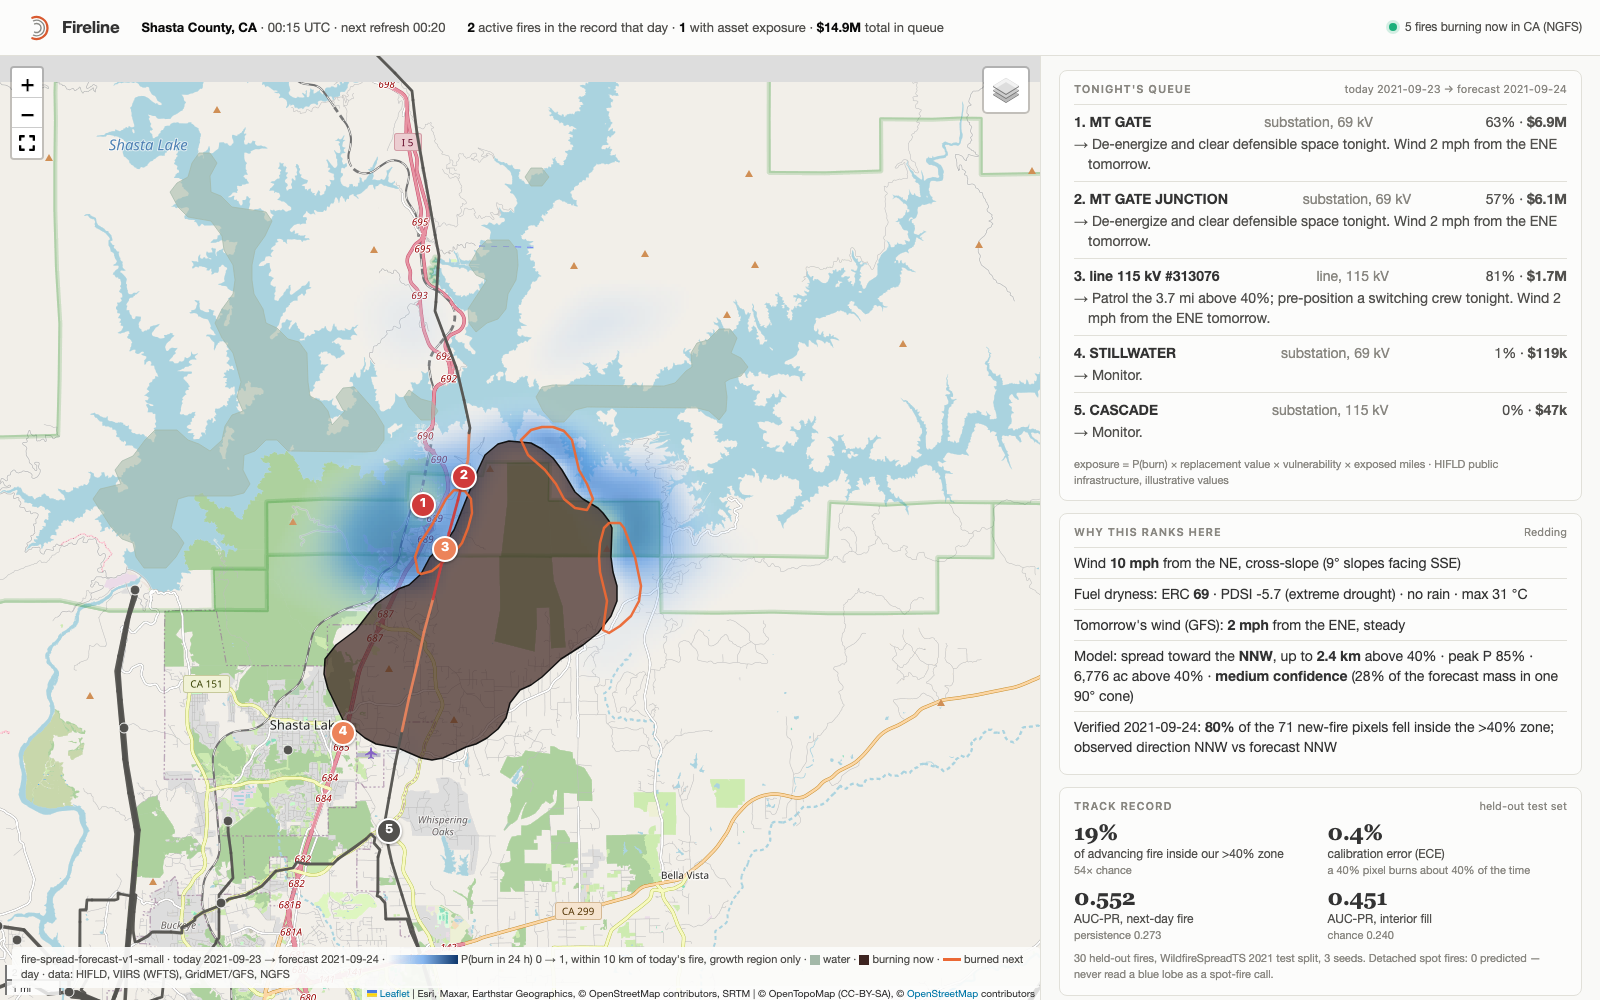
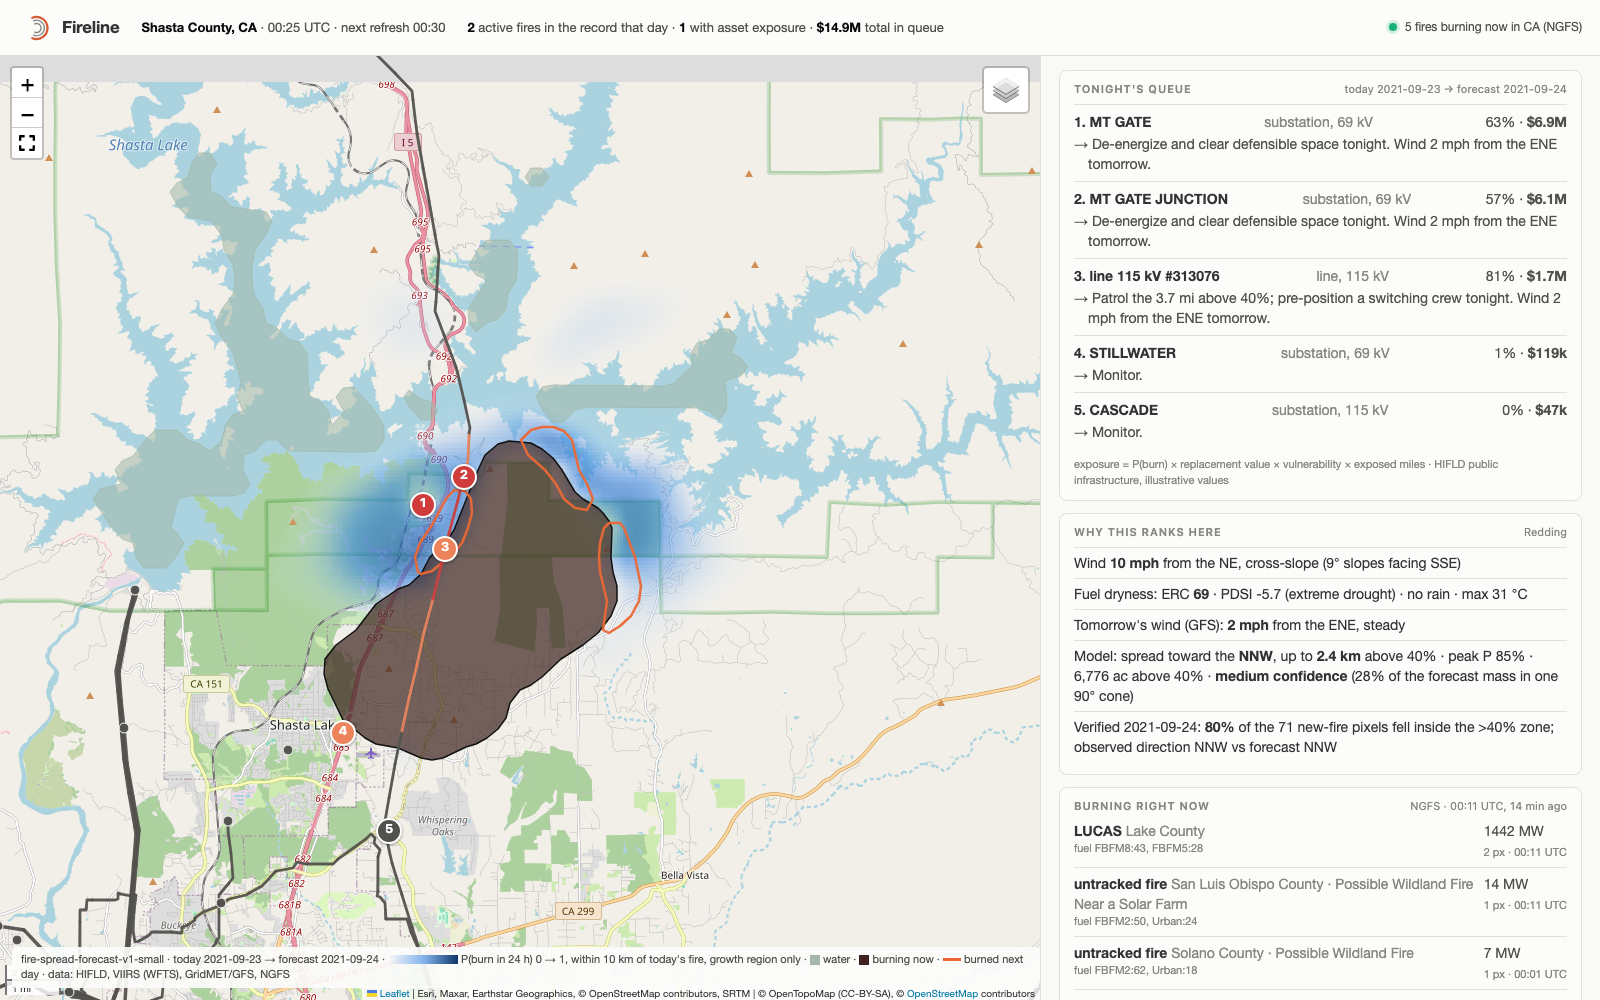
README: dashboard screenshot and link
Claude-Session: https://claude.ai/code/session_019jB8gLJ4C3UN4VbVNWEfFJ

Changed region(s): [[0.6562, 0.806, 0.9688, 1.0]]

diff --git a/README.md b/README.md
@@ -5,7 +5,13 @@
 Next-day wildfire spread as per-pixel probability: today's active-fire mask + terrain, weather, fuel and land cover on a
 375 m grid → P(active fire in the next 24 h) for every pixel. Built at the Frontier Cascadia hackathon, September 2026.
 
-**Live demo map:** https://eitanlebras.github.io/fire-spread-forecast/
+**Live dashboard:** https://eitanlebras.github.io/fire-spread-forecast/
+
+<p align="center">
+  <a href="https://eitanlebras.github.io/fire-spread-forecast/"><img src="demo/redding/dashboard.png" alt="Fireline dashboard: Redding fire, forecast for 2021-09-24, ranked asset queue, model reasons, live NGFS detections" width="900"></a>
+</p>
+
+<p align="center"><sub>Fireline dashboard for the Redding fire (today 2021-09-23, forecast 2021-09-24): tonight's ranked queue with actions, the model's reasons from the day's weather bands, and what NGFS sees burning right now.</sub></p>
 
 <p align="center">
   <img src="assets/fire_25294746_day12_charcoal.png" alt="Fire 25294746, day 12: model forecast (blue) vs. observed next-day fire (orange)" width="720">
